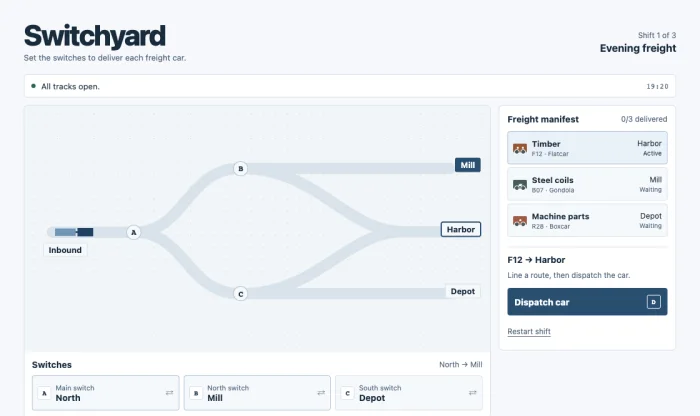
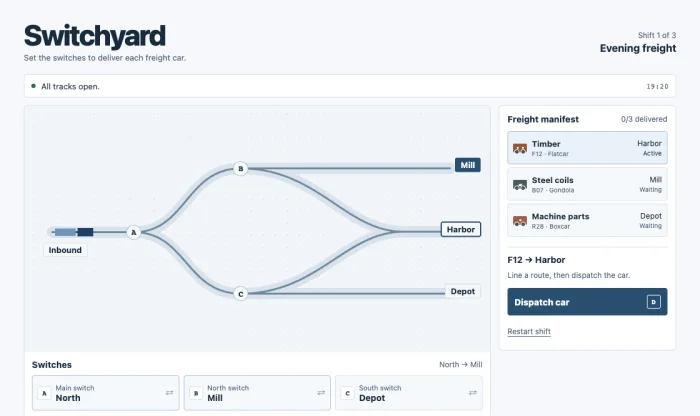
Polish the playable comparisons after verification

diff --git a/docs/examples/switchyard/yard.js b/docs/examples/switchyard/yard.js
@@ -143,7 +143,7 @@
   const get = (id) => document.getElementById(id);
   const shift = () => shiftList[state.shift];
   const currentCar = () => shift().cars[state.delivered];
-  const art = window.SwitchyardScene.create(get('map'), { after, map, segments });
+  const art = window.SwitchyardScene.create(get('map'), { after, segments });
   const advance = get('advance');
 
   function linedRoute() {
@@ -273,6 +273,7 @@
   function animate(mode, duration, end) {
     let start;
     state.mode = mode;
+    state.motion = 0;
     render();
     if (reducedMotion.matches) {
       end();
@@ -332,10 +333,11 @@
         restoreFocus();
         return;
       }
-      state.heading = outcome.message;
-      state.message = 'The track is being cleared.';
+      state.heading = 'Arrival confirmed';
+      state.message = `${currentCar().id} reached ${route.end}. The track is clearing.`;
       animate('arrived', after ? 380 : 180, () => {
         state.delivered += 1;
+        state.heading = outcome.message;
         state.mode = currentCar() ? 'ready' : 'complete';
         state.message = currentCar() ? `Next up · ${currentCar().id} → ${currentCar().destination}${currentCar().approach ? ' · ' + currentCar().approach + ' only' : ''}` : '';
         render();

diff --git a/docs/examples/relay/relay.css b/docs/examples/relay/relay.css
@@ -641,6 +641,7 @@ body:has(dialog[open]) { overflow: hidden; }
     padding-inline: 10px;
   }
   .baseline .row-head { font-size: 10px; }
+  .workstation .row-head { font-size: 9px; letter-spacing: .015em; }
   .baseline .row-head span:nth-child(3) { display: none; }
   .baseline .row-head span:nth-child(4) { grid-column: 3; justify-self: end; }
   .baseline .queue-row { grid-template-rows: auto auto; row-gap: 3px; }
@@ -650,7 +651,7 @@ body:has(dialog[open]) { overflow: hidden; }
   .baseline .queue-row .row-owner { grid-column: 3; grid-row: 1; align-self: end; justify-self: end; line-height: 1.3; text-align: right; }
   .baseline .queue-row .state { padding: 0; background: transparent; font-size: 10px; }
   .row-incident strong, .workstation .row-incident strong { font-size: 13px; }
-  .row-meta, .workstation .row-meta { font-size: 10px; }
+  .baseline .row-meta, .workstation .row-meta { font-size: 10px; }
   .row-meta span + span::before { margin-right: 4px; }
   .row-meta { column-gap: 4px; }
   .owner-name { font-size: 11px; }

diff --git a/docs/examples/switchyard/scene.js b/docs/examples/switchyard/scene.js
@@ -502,6 +502,8 @@ window.SwitchyardScene = (() => {
           trace(base, line, '#909087', 1.65, -6);
           trace(base, line, '#909087', 1.65, 6);
         });
+      } else {
+        all.forEach(line => trace(base, line, '#6d879d', 4));
       }
     }
 
